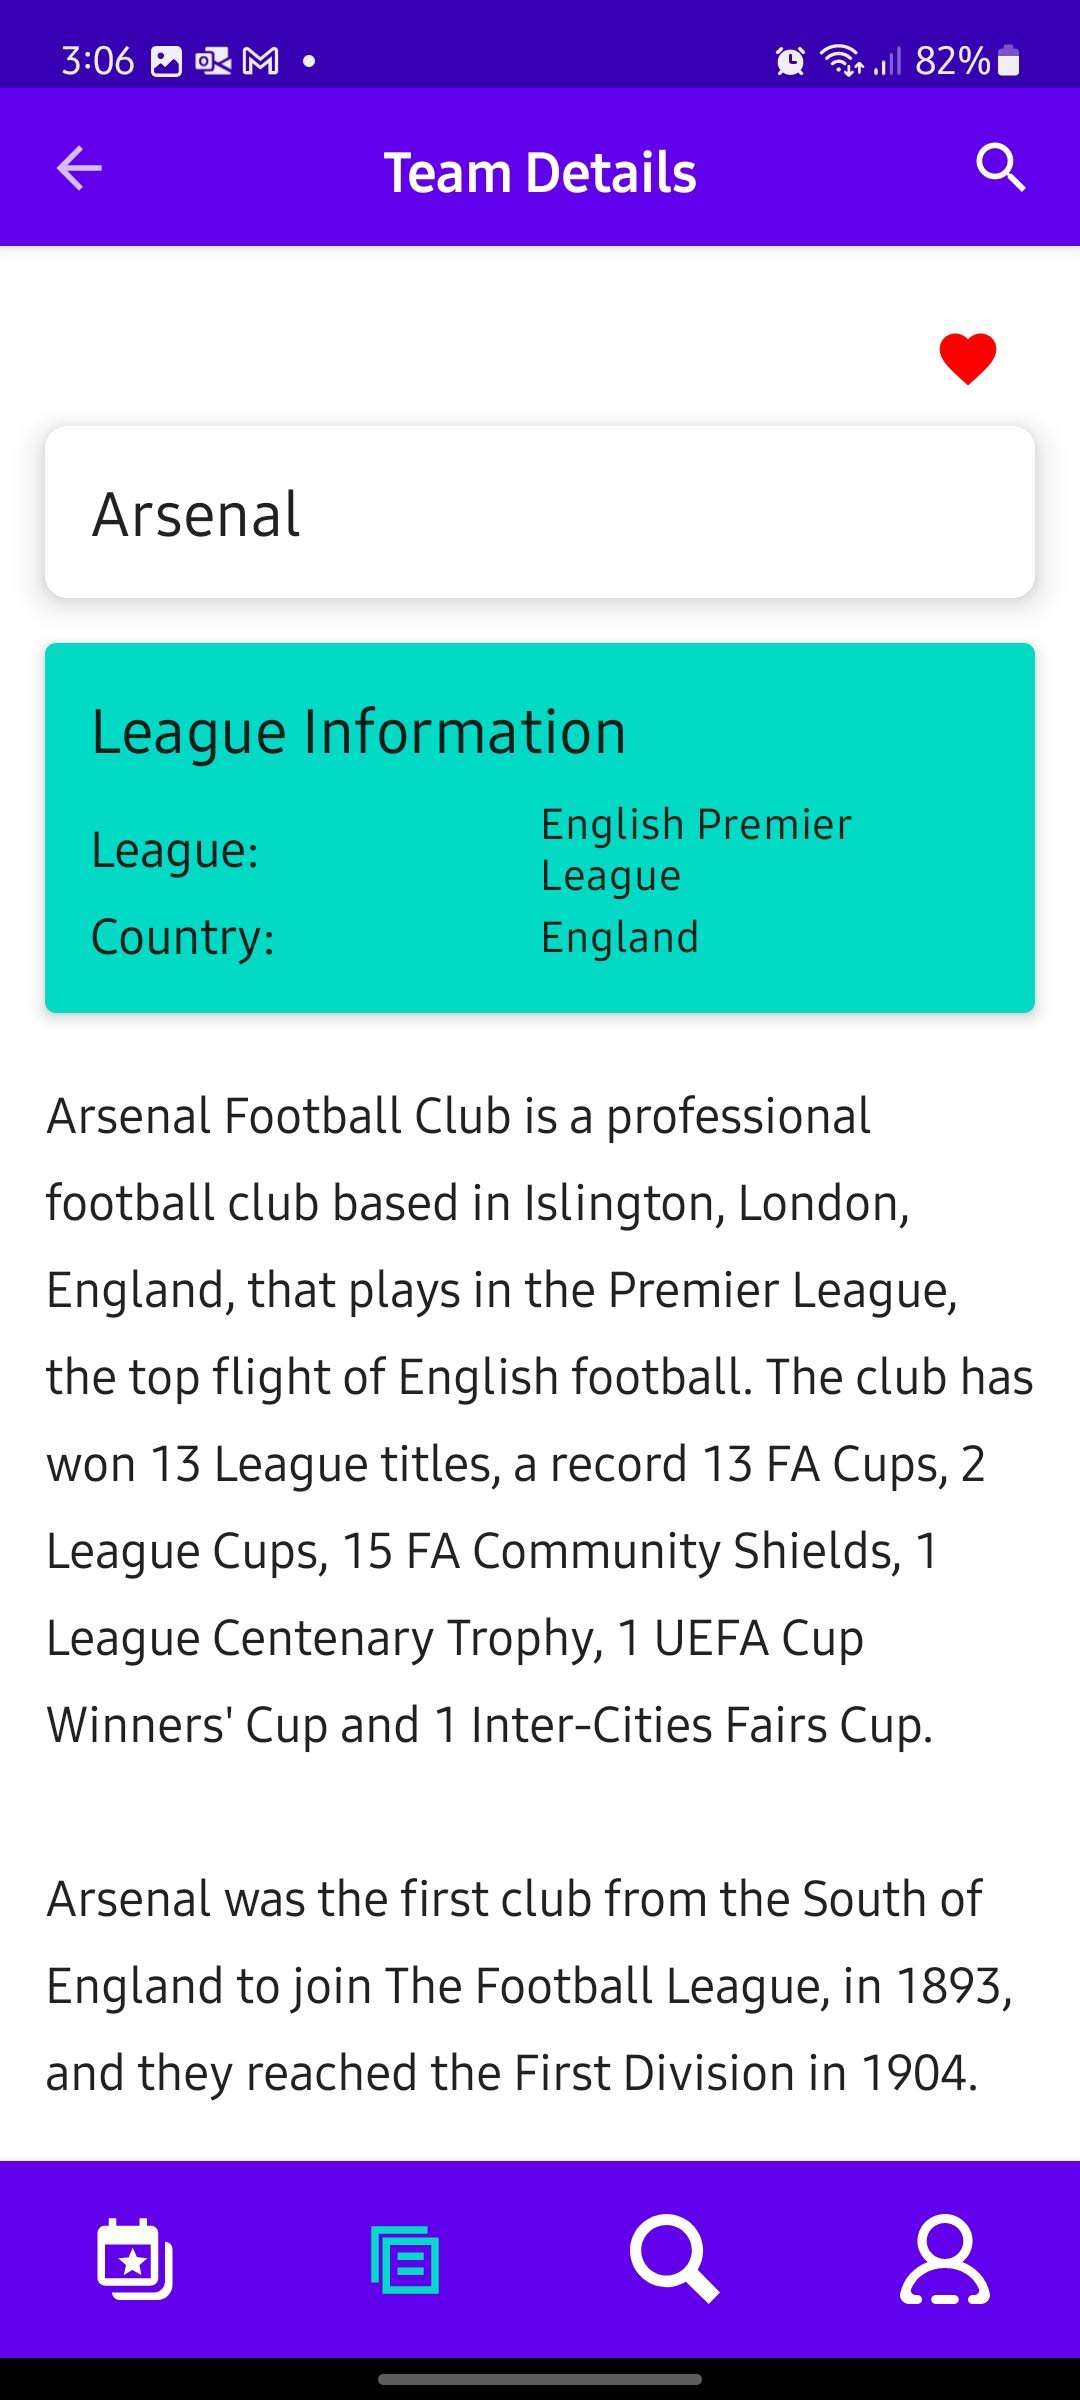
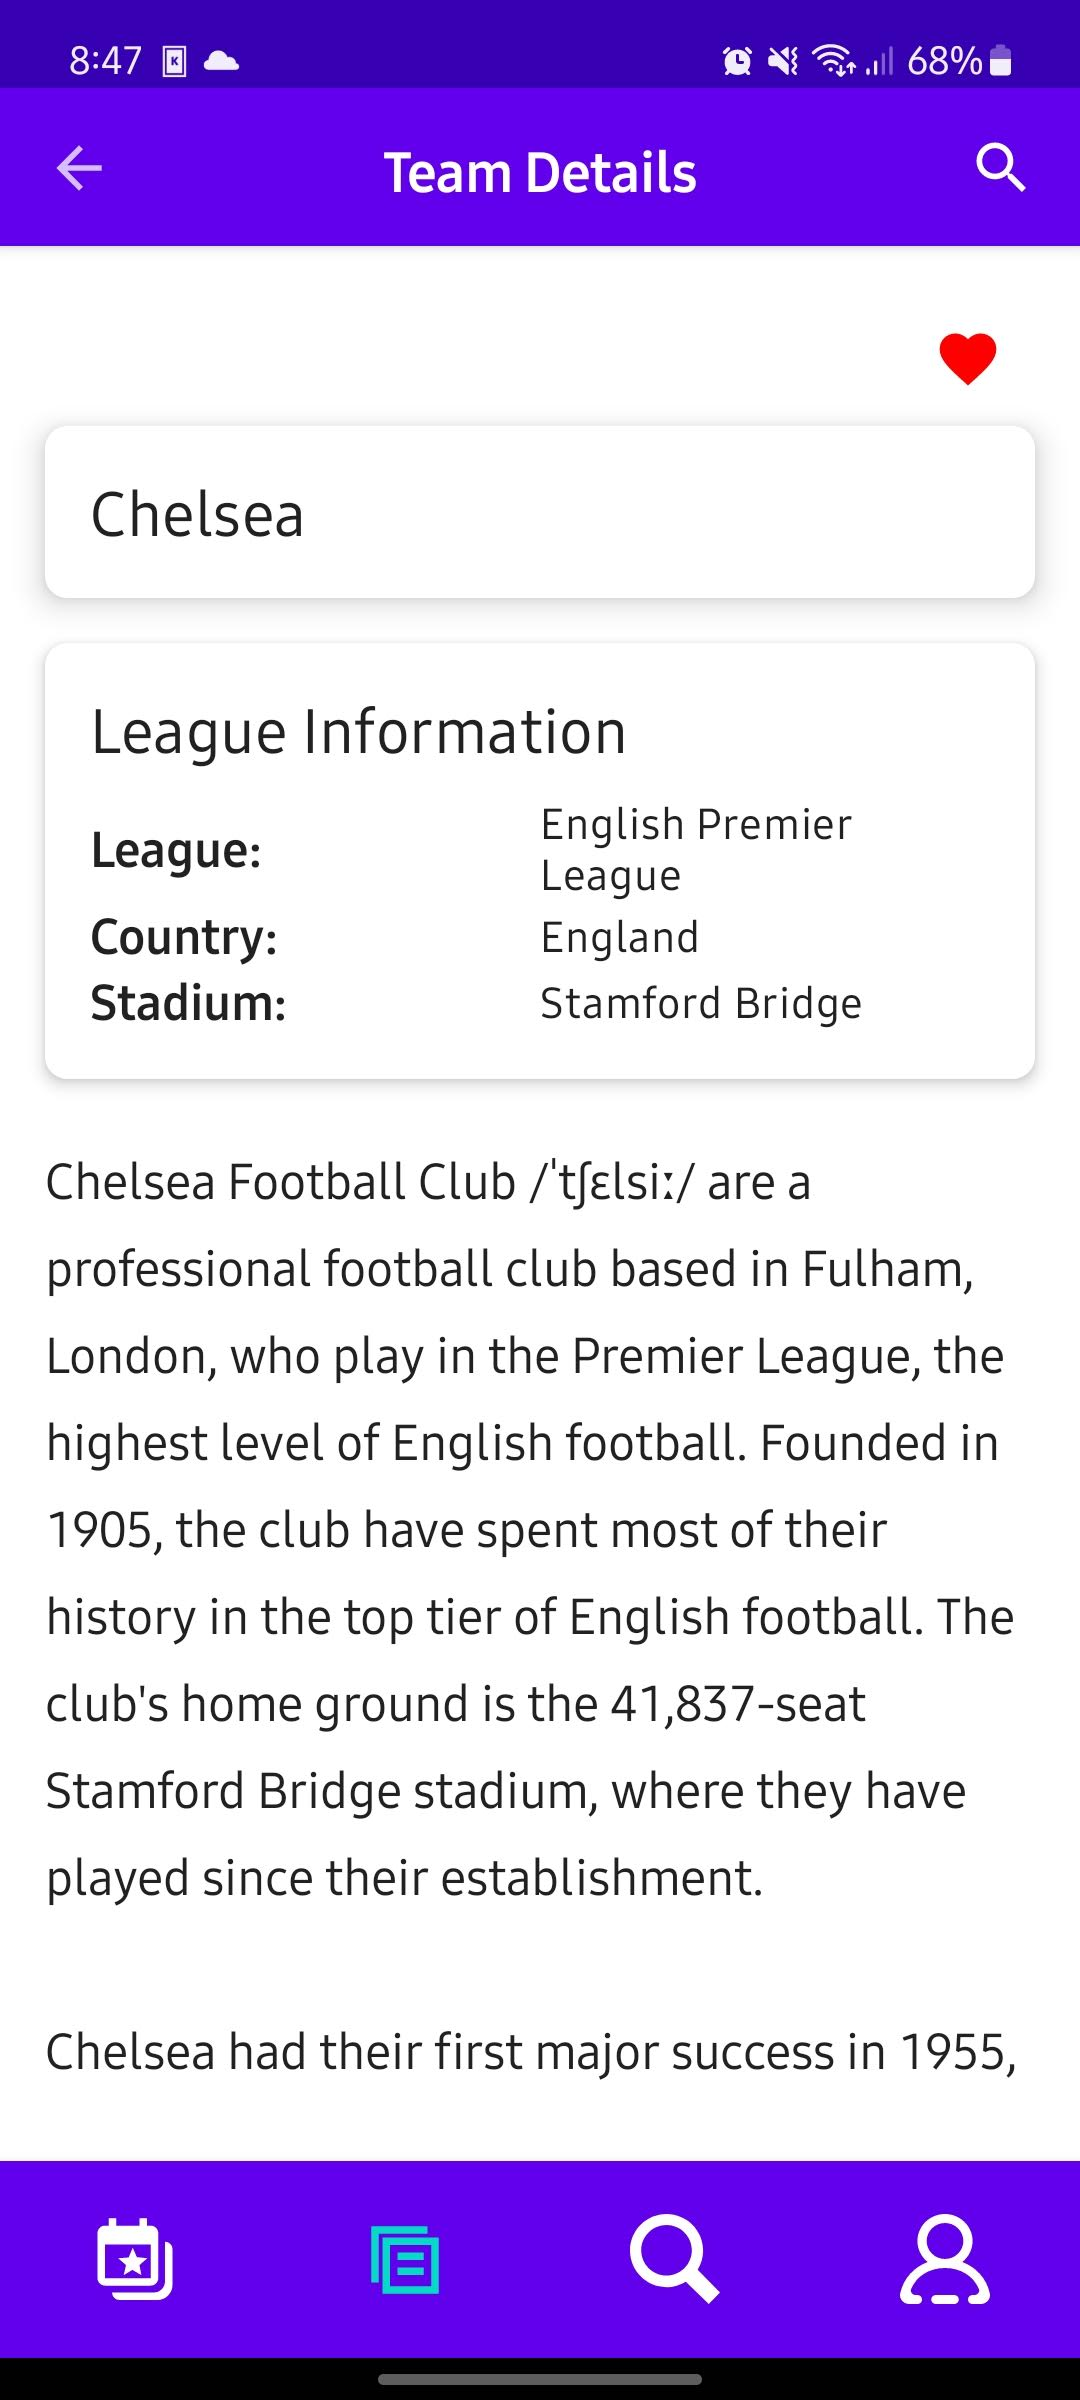
changed league information card

Changed region(s): [[0.0306, 0.1875, 0.9778, 0.875], [0.6722, 0.0, 0.9472, 0.0312], [0.0611, 0.0, 0.275, 0.0312]]

diff --git a/app/src/main/java/com/madhav/sportstrackr/features/details/presentation/views/LeagueInformationView.kt b/app/src/main/java/com/madhav/sportstrackr/features/details/presentation/views/LeagueInformationView.kt
@@ -4,21 +4,30 @@ import androidx.compose.foundation.layout.Column
 import androidx.compose.foundation.layout.Row
 import androidx.compose.foundation.layout.fillMaxWidth
 import androidx.compose.foundation.layout.padding
+import androidx.compose.foundation.shape.RoundedCornerShape
 import androidx.compose.material.Card
 import androidx.compose.material.MaterialTheme
 import androidx.compose.material.Text
 import androidx.compose.runtime.Composable
 import androidx.compose.ui.Alignment
 import androidx.compose.ui.Modifier
+import androidx.compose.ui.text.font.FontWeight
 import androidx.compose.ui.tooling.preview.Preview
 import androidx.compose.ui.unit.dp
 
 @Composable
-fun LeagueInformationView(leagueName: String, country: String, modifier: Modifier = Modifier) {
+fun LeagueInformationView(
+    leagueName: String,
+    country: String,
+    manager: String,
+    stadium: String,
+    modifier: Modifier = Modifier
+) {
     Card(
         modifier = Modifier.fillMaxWidth(),
         elevation = 4.dp,
-        backgroundColor = MaterialTheme.colors.secondary
+        backgroundColor = MaterialTheme.colors.surface,
+        shape = RoundedCornerShape(8.dp),
     ) {
         Column(
             modifier = Modifier.padding(16.dp)
@@ -28,43 +37,48 @@ fun LeagueInformationView(leagueName: String, country: String, modifier: Modifie
                 style = MaterialTheme.typography.h6,
                 modifier = Modifier.padding(bottom = 8.dp)
             )
-            Row(
-                verticalAlignment = Alignment.CenterVertically,
-                modifier = Modifier.fillMaxWidth()
-            ) {
-                Text(
-                    text = "League:",
-                    style = MaterialTheme.typography.body1,
-                    modifier = Modifier.weight(1f)
-                )
-                Text(
-                    text = leagueName,
-                    style = MaterialTheme.typography.body2,
-                    modifier = Modifier.weight(1f)
-                )
-            }
-            Row(
-                verticalAlignment = Alignment.CenterVertically,
-                modifier = Modifier.fillMaxWidth()
-            ) {
-                Text(
-                    text = "Country:",
-                    style = MaterialTheme.typography.body1,
-                    modifier = Modifier.weight(1f)
-                )
-                Text(
-                    text = country,
-                    style = MaterialTheme.typography.body2,
-                    modifier = Modifier.weight(1f)
-                )
-            }
+            TextInfo(label = "League", value = leagueName)
+            TextInfo(label = "Country", value = country)
+            TextInfo(label="Manager", value = manager)
+            TextInfo(label = "Stadium", value = stadium)
         }
     }
 
 }
 
+@Composable
+fun TextInfo(label: String, value: String) {
+    if(value.isEmpty()) {
+        return
+    }
+
+    Row(
+        verticalAlignment = Alignment.CenterVertically,
+        modifier = Modifier.fillMaxWidth()
+    ) {
+        Text(
+            text = "$label:",
+            style = MaterialTheme.typography.body1.copy(
+                fontWeight = FontWeight.Bold
+            ),
+            modifier = Modifier.weight(1f)
+        )
+        Text(
+            text = value,
+            style = MaterialTheme.typography.body2,
+            modifier = Modifier.weight(1f)
+        )
+    }
+
+}
+
+
 @Preview
 @Composable
 fun LeagueInformationPreview() {
-    LeagueInformationView(leagueName = "Premier League", country = "England")
+    LeagueInformationView(
+        leagueName = "Premier League", country = "England",
+        manager = "Jose Marinho",
+        stadium = "Old Trafford"
+    )
 }

diff --git a/app/src/main/java/com/madhav/sportstrackr/features/details/presentation/page/LeagueTeamDetailsScreen.kt b/app/src/main/java/com/madhav/sportstrackr/features/details/presentation/page/LeagueTeamDetailsScreen.kt
@@ -51,7 +51,10 @@ fun LeagueTeamDetailsLoadedScreen(
         SportsTeamSection(name = team.strTeam)
         Spacer(modifier = Modifier.height(16.dp))
 
-        LeagueInformationView(leagueName = team.strLeague, country = team.strCountry)
+        LeagueInformationView(leagueName = team.strLeague, country = team.strCountry,
+            manager = team.strManager ?:"",
+            stadium = team.strStadium ?: ""
+            )
 
         Spacer(modifier = Modifier.height(8.dp))
 
